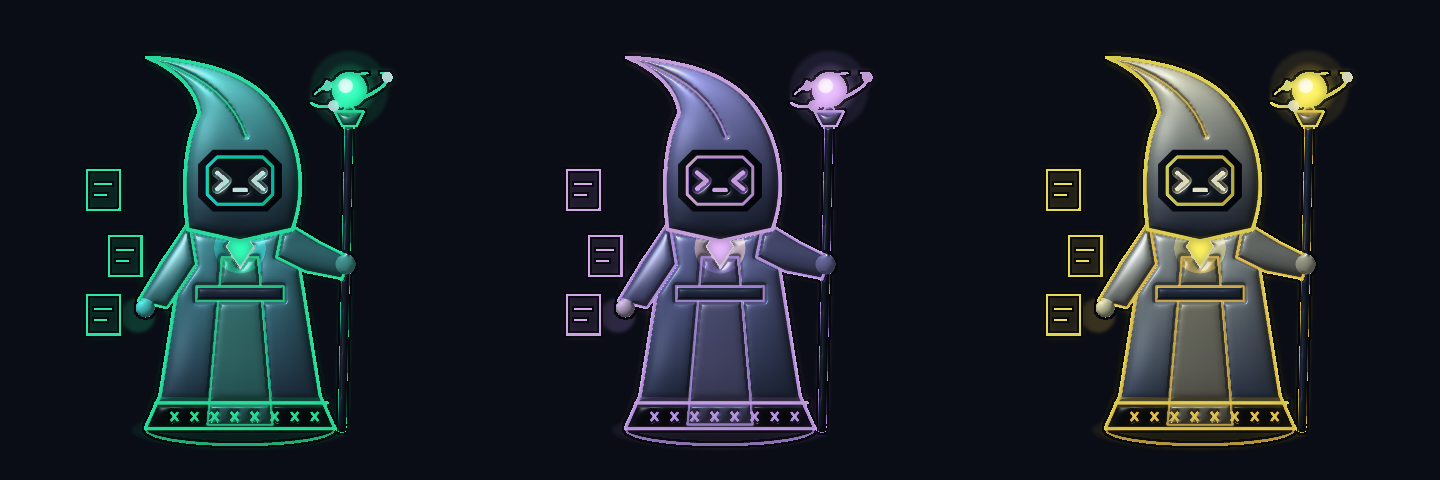
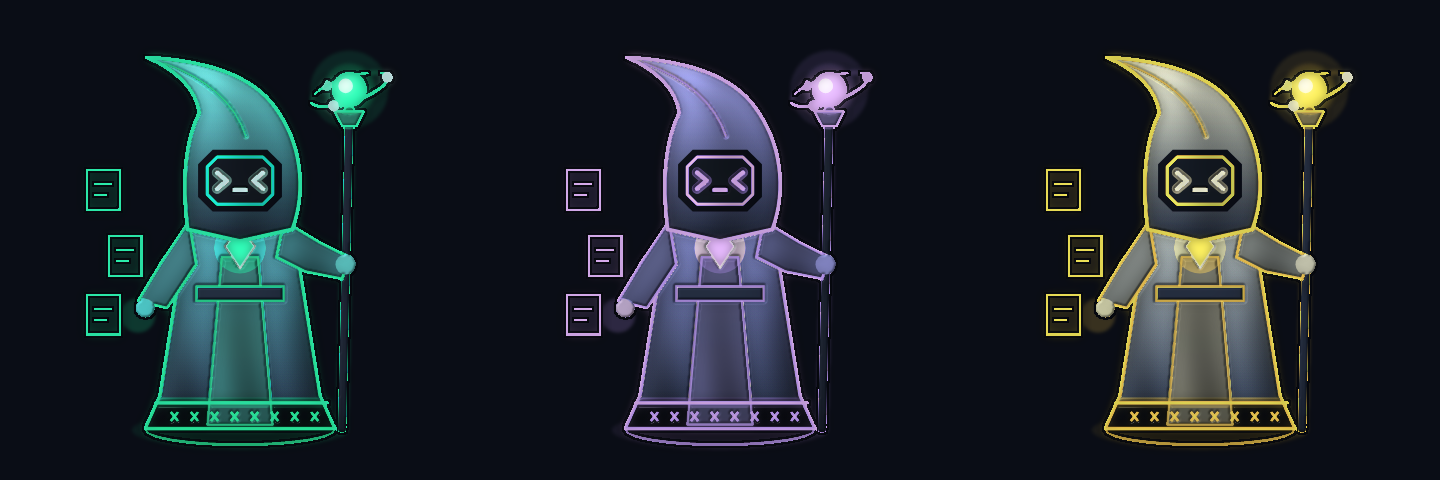
Operator concept v2: Packet Mage robe shaded as matte cloth with folds (owner)
Claude-Session: https://claude.ai/code/session_01J4fYSi9rfQR62SLnfyrDCN

diff --git a/tools/operators/shade_operators.py b/tools/operators/shade_operators.py
@@ -65,8 +65,8 @@ def shade(path, flat_cape=None):
     base_px = np.clip(grey + (px - grey) * sat_k, 0, 1)   # slightly less saturated than the panel colour
     # rounded volumes: a soft bevel at every panel edge plus a broad dome over each panel
     fm = fill.astype(np.float32)
-    if mage:   # smooth cloth: mostly the broad dome, a light edge bevel
-        height = (0.25 * ndimage.gaussian_filter(fm, 3.5) + 0.75 * ndimage.gaussian_filter(fm, 16)) * fm
+    if mage:   # soft cloth: a broad gentle dome, no edge bevel
+        height = ndimage.gaussian_filter(fm, 18) * fm * 0.7
     else:
         height = (0.55 * ndimage.gaussian_filter(fm, 2.5) + 0.45 * ndimage.gaussian_filter(fm, 9)) * fm
     hs = ndimage.gaussian_filter(height, 1.0) * 26.0
@@ -82,8 +82,21 @@ def shade(path, flat_cape=None):
     ao = np.clip(ndimage.gaussian_filter(fm, 4.0 if mage else 2.0) * 1.6, 0, 1) * (0.3 if mage else 0.5) + (0.7 if mage else 0.5)
     base = base_px
     visor = (kind[labels] == 1) & fill
-    lit = base * (0.42 + 0.75 * diff)[..., None] * fall[..., None] * ao[..., None]
-    lit = lit + (spec * np.where(visor, 0.45, 0.65 if mage else 0.5))[..., None]
+    if mage:
+        # Cloth, not metal (owner): matte wrap lighting, no hard highlight, only a faint broad
+        # sheen, and soft vertical folds that deepen toward the hem of the big robe panels.
+        wrap = np.clip((nrm @ LIGHT + 0.45) / 1.45, 0, 1)
+        sizes = ndimage.sum(fill, labels, idx) if n else np.zeros(0)
+        big = np.isin(labels, idx[sizes > 0.04 * total]) if n else np.zeros_like(fill)
+        t = np.clip((yy - y0) / max(y1 - y0, 1), 0, 1)
+        folds = np.sin(xx / max(x1 - x0, 1) * 2 * np.pi * 4.5 + 0.8 + 0.6 * np.sin(yy / 40.0)) * (0.06 + 0.16 * t ** 1.5)
+        folds = ndimage.gaussian_filter(np.where(big, folds, 0), 2.0)
+        sheen = np.clip(nrm @ HALF, 0, 1) ** 6 * 0.07
+        lit = base * (0.5 + 0.55 * wrap + folds)[..., None] * fall[..., None] * ao[..., None]
+        lit = lit + np.where(visor, spec * 0.45, sheen)[..., None]
+    else:
+        lit = base * (0.42 + 0.75 * diff)[..., None] * fall[..., None] * ao[..., None]
+        lit = lit + (spec * np.where(visor, 0.45, 0.5))[..., None]
     out = np.where(fill[..., None], lit, 0)
     # The Phantom's cape and hood stay as they were, unshaded (owner, after the v2 sheets):
     # its two biggest panels.
